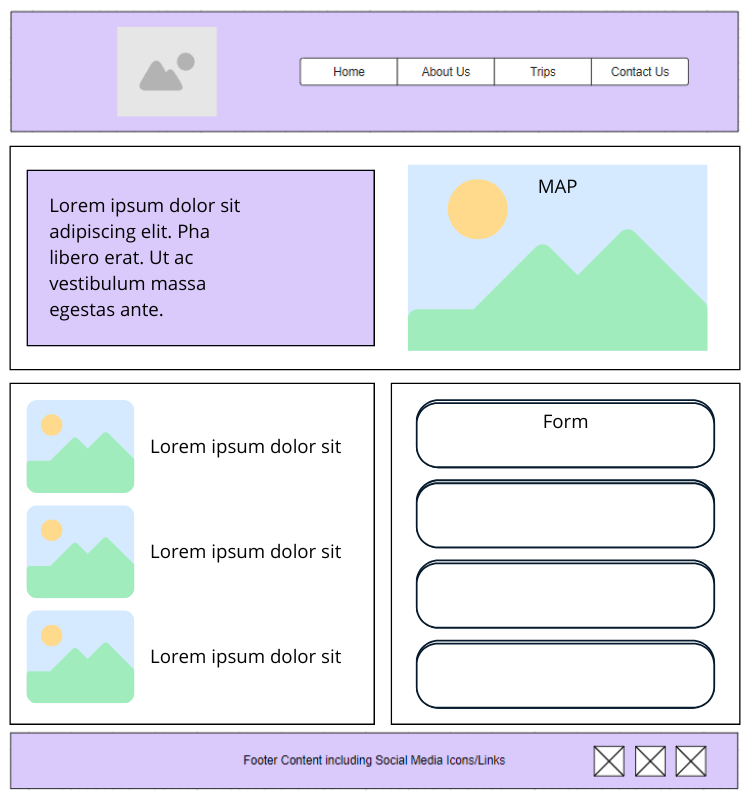
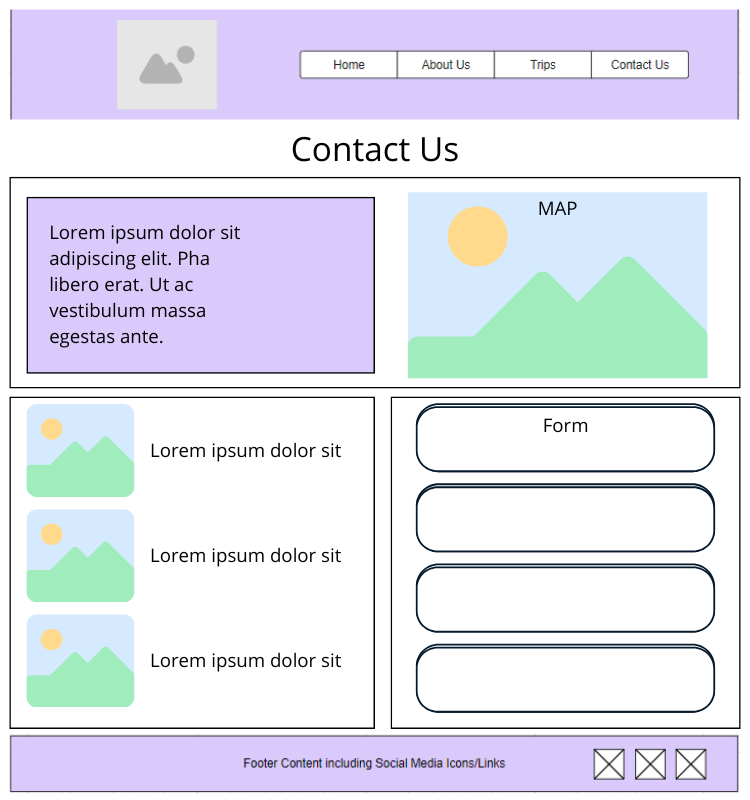
now reay

diff --git a/wwr/contact.html b/wwr/contact.html
@@ -25,7 +25,7 @@
 
     <main>
 
-    <h1 class="title01">Contact Us Page</h1>
+    <h1 class="title01">Contact Us</h1>
 
         <div class="first">
             <section class="contact-info">
@@ -102,7 +102,7 @@
         <p>© 2024 • White Water Rafting • Manuel Pumar</p>
         <nav class="links footer">
 
-            <a href="images/contact-us-wireframe.png" target="_blank">Contact Us</a>
+            <a href="images/contact-us-wireframe.png" target="_blank">Wireframe - Contact Us</a>
 
             <a href="https://www.facebook.com/" target="_blank">
                 <img src="images/facebook-logo.png" alt="Facebook Logo">

diff --git a/wwr/styles/styles.css b/wwr/styles/styles.css
@@ -176,6 +176,11 @@ iframe{
   padding: 20px;
 }
 
+.main-content p{
+  color: white;
+  font-size: 15px;
+}
+
 .employees {
   display: flex;
   flex-direction: column;
@@ -186,7 +191,7 @@ iframe{
 .employee {
   display: flex;
   align-items: center;
-  background-color: aqua;
+  background-color: var(--secondary-color);
   padding: 20px;
   box-shadow: 0 2px 4px rgba(0, 0, 0, 0.1);
 }
@@ -226,4 +231,8 @@ iframe{
 .title01{
   text-align: center;
   margin: 0%;
+}
+
+footer a{
+  color: black;
 }
